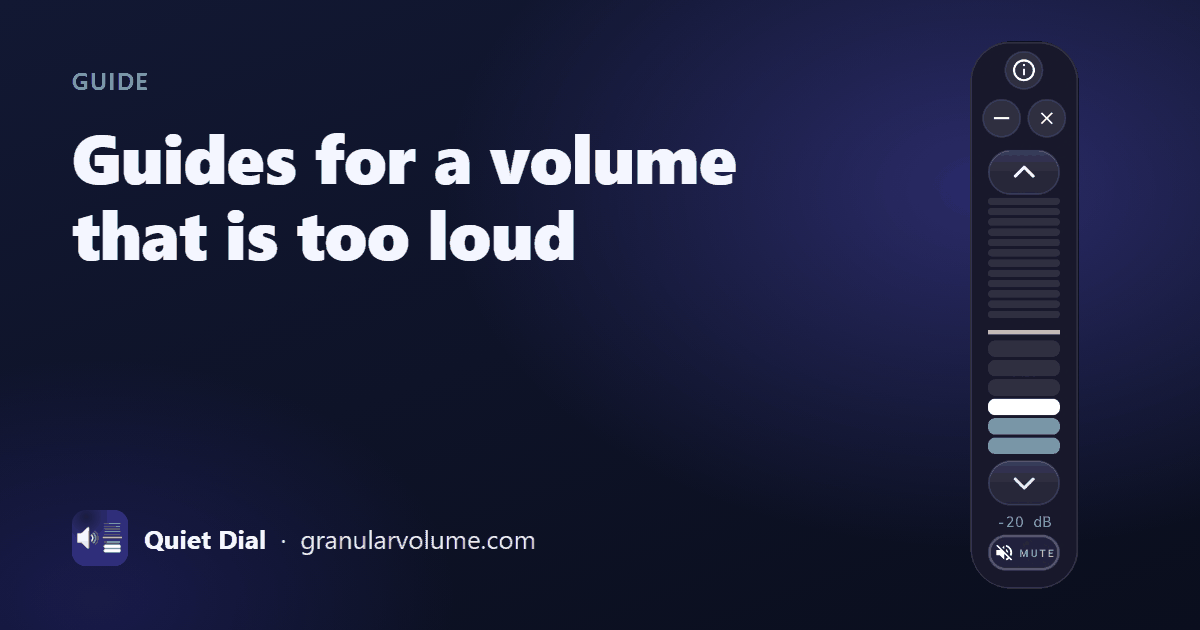
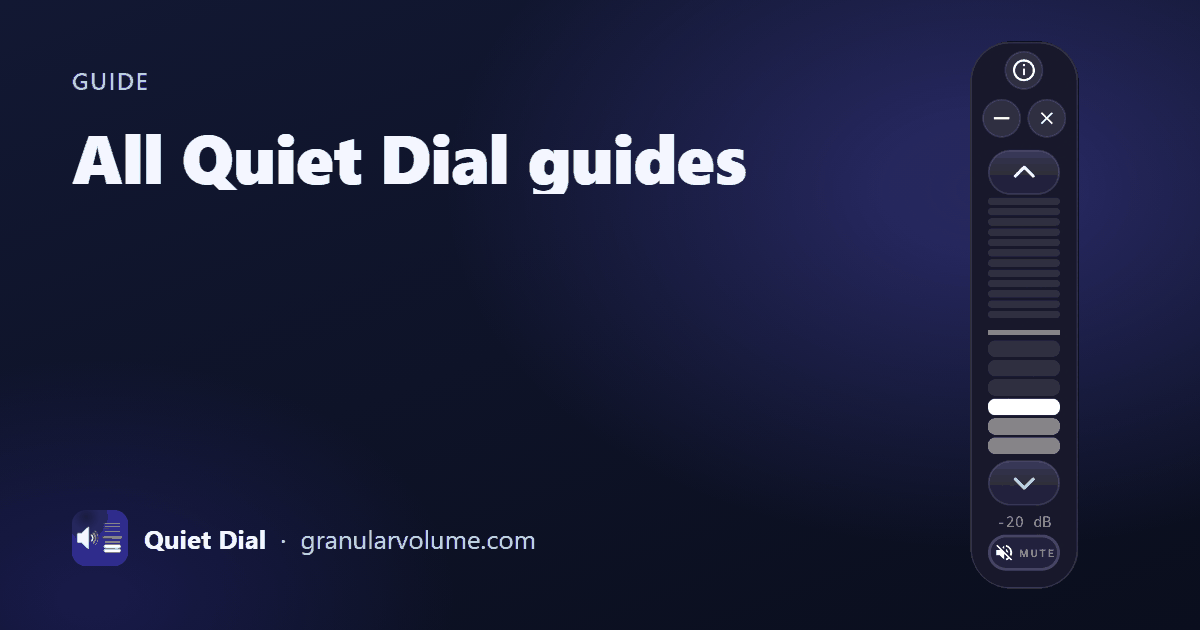
Site: guides hub no longer competes with the main guide; main guide dates

diff --git a/docs/guide/index.html b/docs/guide/index.html
@@ -3,31 +3,31 @@
 <head>
 <meta charset="utf-8">
 <meta name="viewport" content="width=device-width, initial-scale=1">
-<title>Guides: Android Volume Too Loud at the Lowest Setting</title>
-<meta name="description" content="Every Quiet Dial guide in one place: why Android&#x27;s lowest volume is still too loud, fixes by phone brand, earbuds, calls and alarms, and quiet use cases.">
+<title>Quiet Dial Guides by Device, Earbuds and Use</title>
+<meta name="description" content="All Quiet Dial guides by tablet, phone brand, earbuds, calls and alarms. New here? Start with the main guide to going below the minimum volume.">
 <meta name="robots" content="index, follow">
 <link rel="canonical" href="https://granularvolume.com/guide/">
 <meta property="og:url" content="https://granularvolume.com/guide/">
-<meta property="og:title" content="Guides: Android Volume Too Loud at the Lowest Setting">
+<meta property="og:title" content="Quiet Dial Guides by Device, Earbuds and Use">
 <meta property="og:image" content="https://granularvolume.com/img/og/guide-index.png">
 <meta property="og:image:width" content="1200">
 <meta property="og:image:height" content="630">
-<meta property="og:image:alt" content="Guides: Android Volume Too Loud at the Lowest Setting">
+<meta property="og:image:alt" content="Quiet Dial Guides by Device, Earbuds and Use">
 <meta name="twitter:card" content="summary_large_image">
 <meta name="twitter:image" content="https://granularvolume.com/img/og/guide-index.png">
 <meta property="og:locale" content="en_US">
-<meta property="og:description" content="Every Quiet Dial guide in one place: why Android&#x27;s lowest volume is still too loud, fixes by phone brand, earbuds, calls and alarms, and quiet use cases.">
+<meta property="og:description" content="All Quiet Dial guides by tablet, phone brand, earbuds, calls and alarms. New here? Start with the main guide to going below the minimum volume.">
 <meta property="og:type" content="website">
 <link rel="icon" href="../img/icon.png">
 <script type="application/ld+json">
 {
   "@context": "https://schema.org",
   "@type": "CollectionPage",
-  "name": "Guides: Android Volume Too Loud at the Lowest Setting",
-  "description": "Every Quiet Dial guide in one place: why Android's lowest volume is still too loud, fixes by phone brand, earbuds, calls and alarms, and quiet use cases.",
+  "name": "Quiet Dial Guides by Device, Earbuds and Use",
+  "description": "All Quiet Dial guides by tablet, phone brand, earbuds, calls and alarms. New here? Start with the main guide to going below the minimum volume.",
   "url": "https://granularvolume.com/guide/",
   "datePublished": "2026-10-24",
-  "dateModified": "2026-10-26",
+  "dateModified": "2026-10-31",
   "publisher": {
     "@type": "Organization",
     "@id": "https://granularvolume.com/#org",
@@ -326,9 +326,9 @@
   <header class="top">
     <div class="crumb"><a href="../">Quiet Dial</a> / Guides</div>
     <div class="icon"><img width="160" height="160" src="../img/icon-160.webp" alt="Quiet Dial icon"></div>
-    <h1>Guides for a volume that is too loud</h1>
+    <h1>All Quiet Dial guides</h1>
     <p class="dek">Each guide starts with the free fixes your phone already has, says plainly what they can and cannot do, and only then shows where the dial helps.</p>
-    <p class="meta">24 guides and use cases &middot; Updated October 24, 2026</p>
+    <p class="meta">24 guides and use cases &middot; Updated October 31, 2026</p>
   </header>
 <main id="main" tabindex="-1">
 

diff --git a/docs/guide/lower-android-volume-below-minimum.html b/docs/guide/lower-android-volume-below-minimum.html
@@ -36,7 +36,7 @@
   "author": {"@type": "Person", "name": "Rotem Zussman"},
   "publisher": {"@type": "Organization", "@id": "https://granularvolume.com/#org", "name": "Granular Volume", "url": "https://granularvolume.com/"},
   "datePublished": "2026-07-13",
-  "dateModified": "2026-11-01",
+  "dateModified": "2026-10-31",
   "mainEntityOfPage": "https://granularvolume.com/guide/lower-android-volume-below-minimum.html"
 }
 </script>
@@ -358,7 +358,7 @@
     <div class="icon"><img width="160" height="160" src="../img/icon-160.webp" alt="Quiet Dial icon"></div>
     <h1>Android lowest volume too loud? How to go below the minimum</h1>
     <p class="dek">Every real method, ranked honestly by what actually lowers the floor versus what just adds more clicks in between. No root required for any of these.</p>
-    <p class="meta">Updated November 1, 2026 · 10 min read</p>
+    <p class="meta">Updated October 31, 2026 · 10 min read</p>
   </header>
 <main id="main" tabindex="-1">
 
